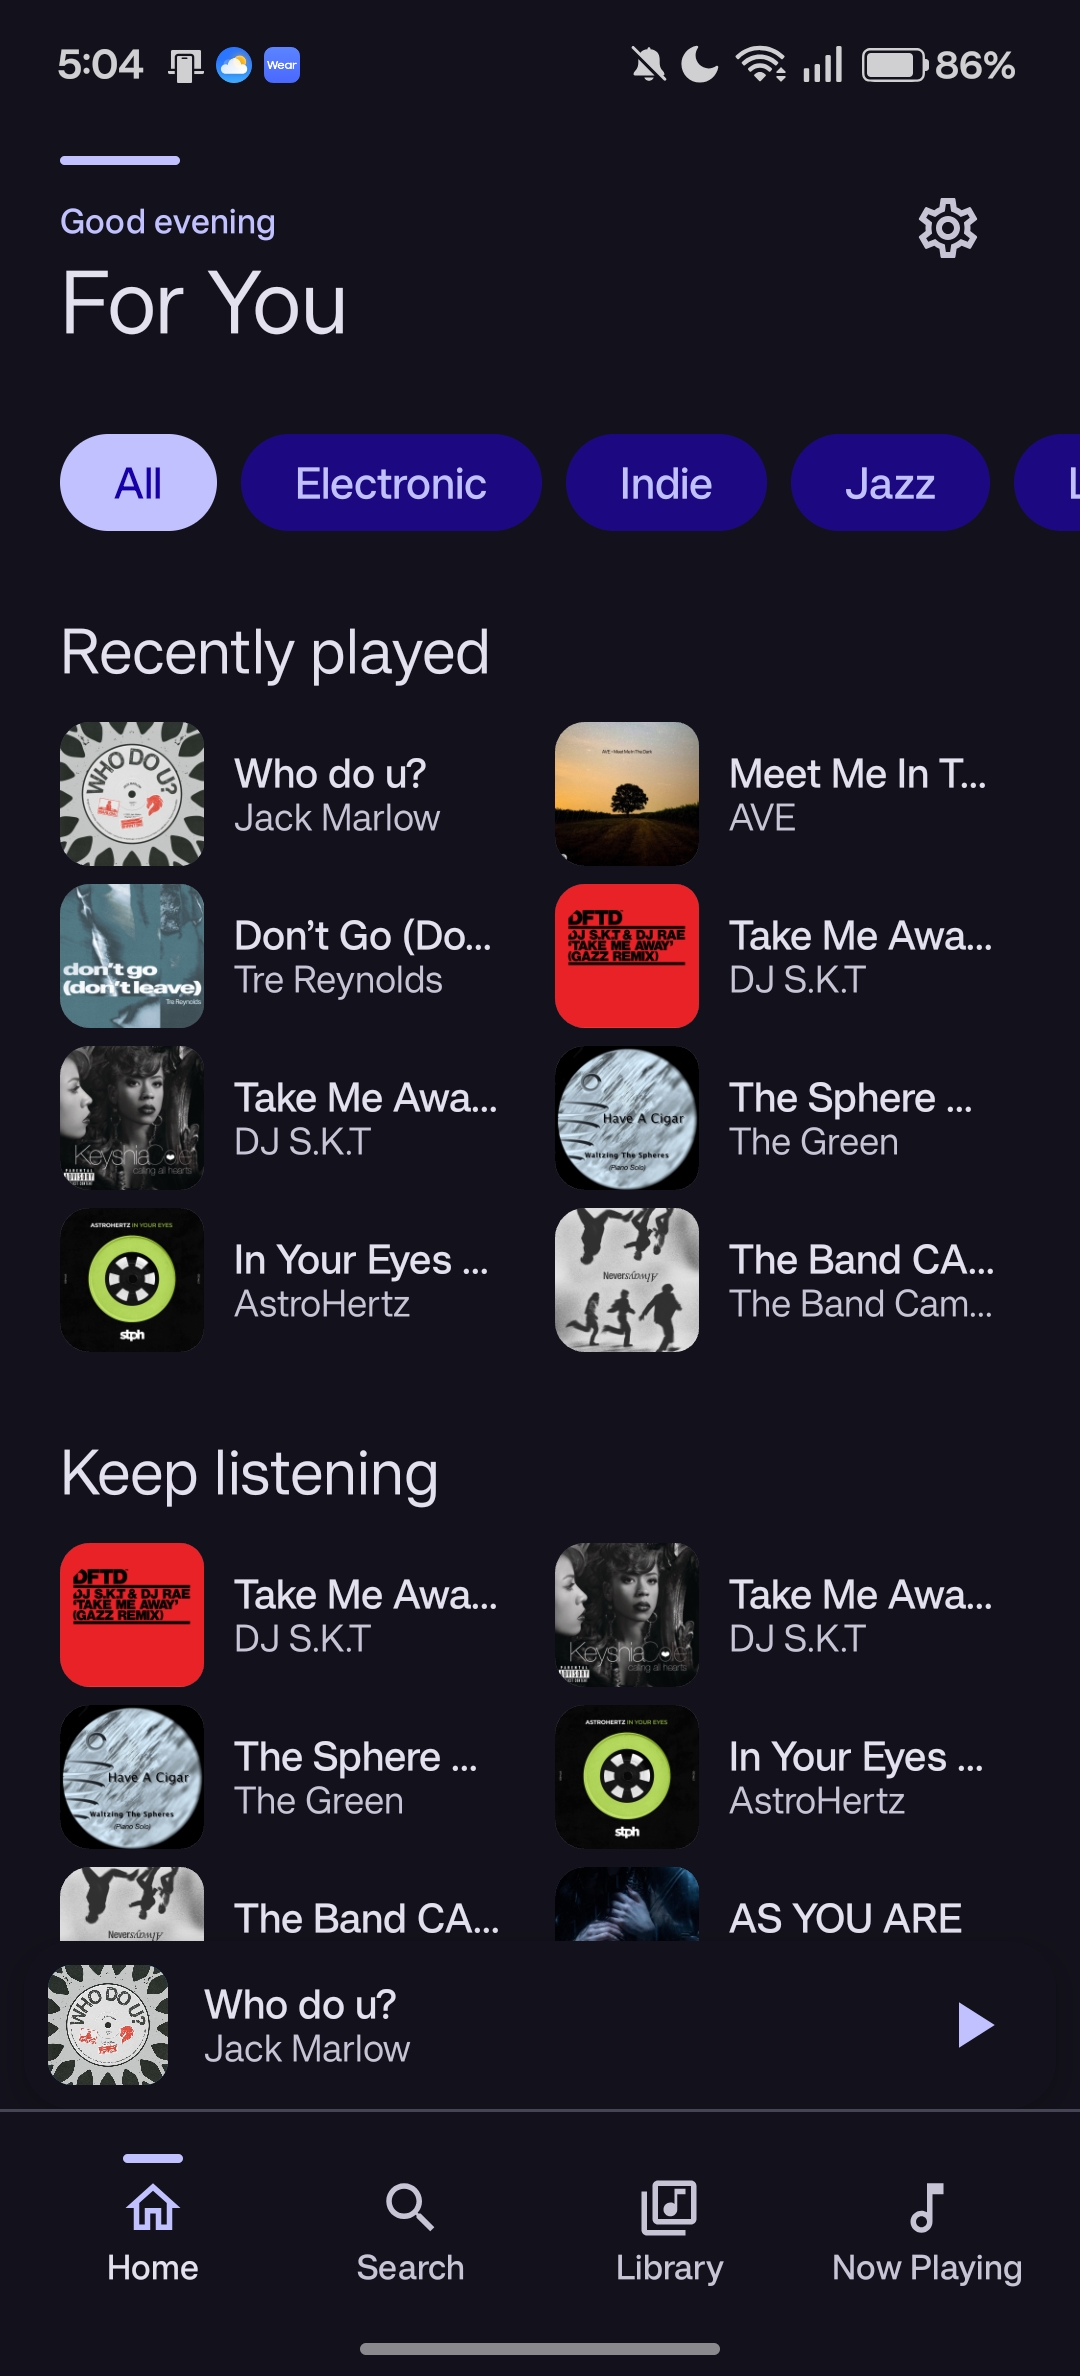
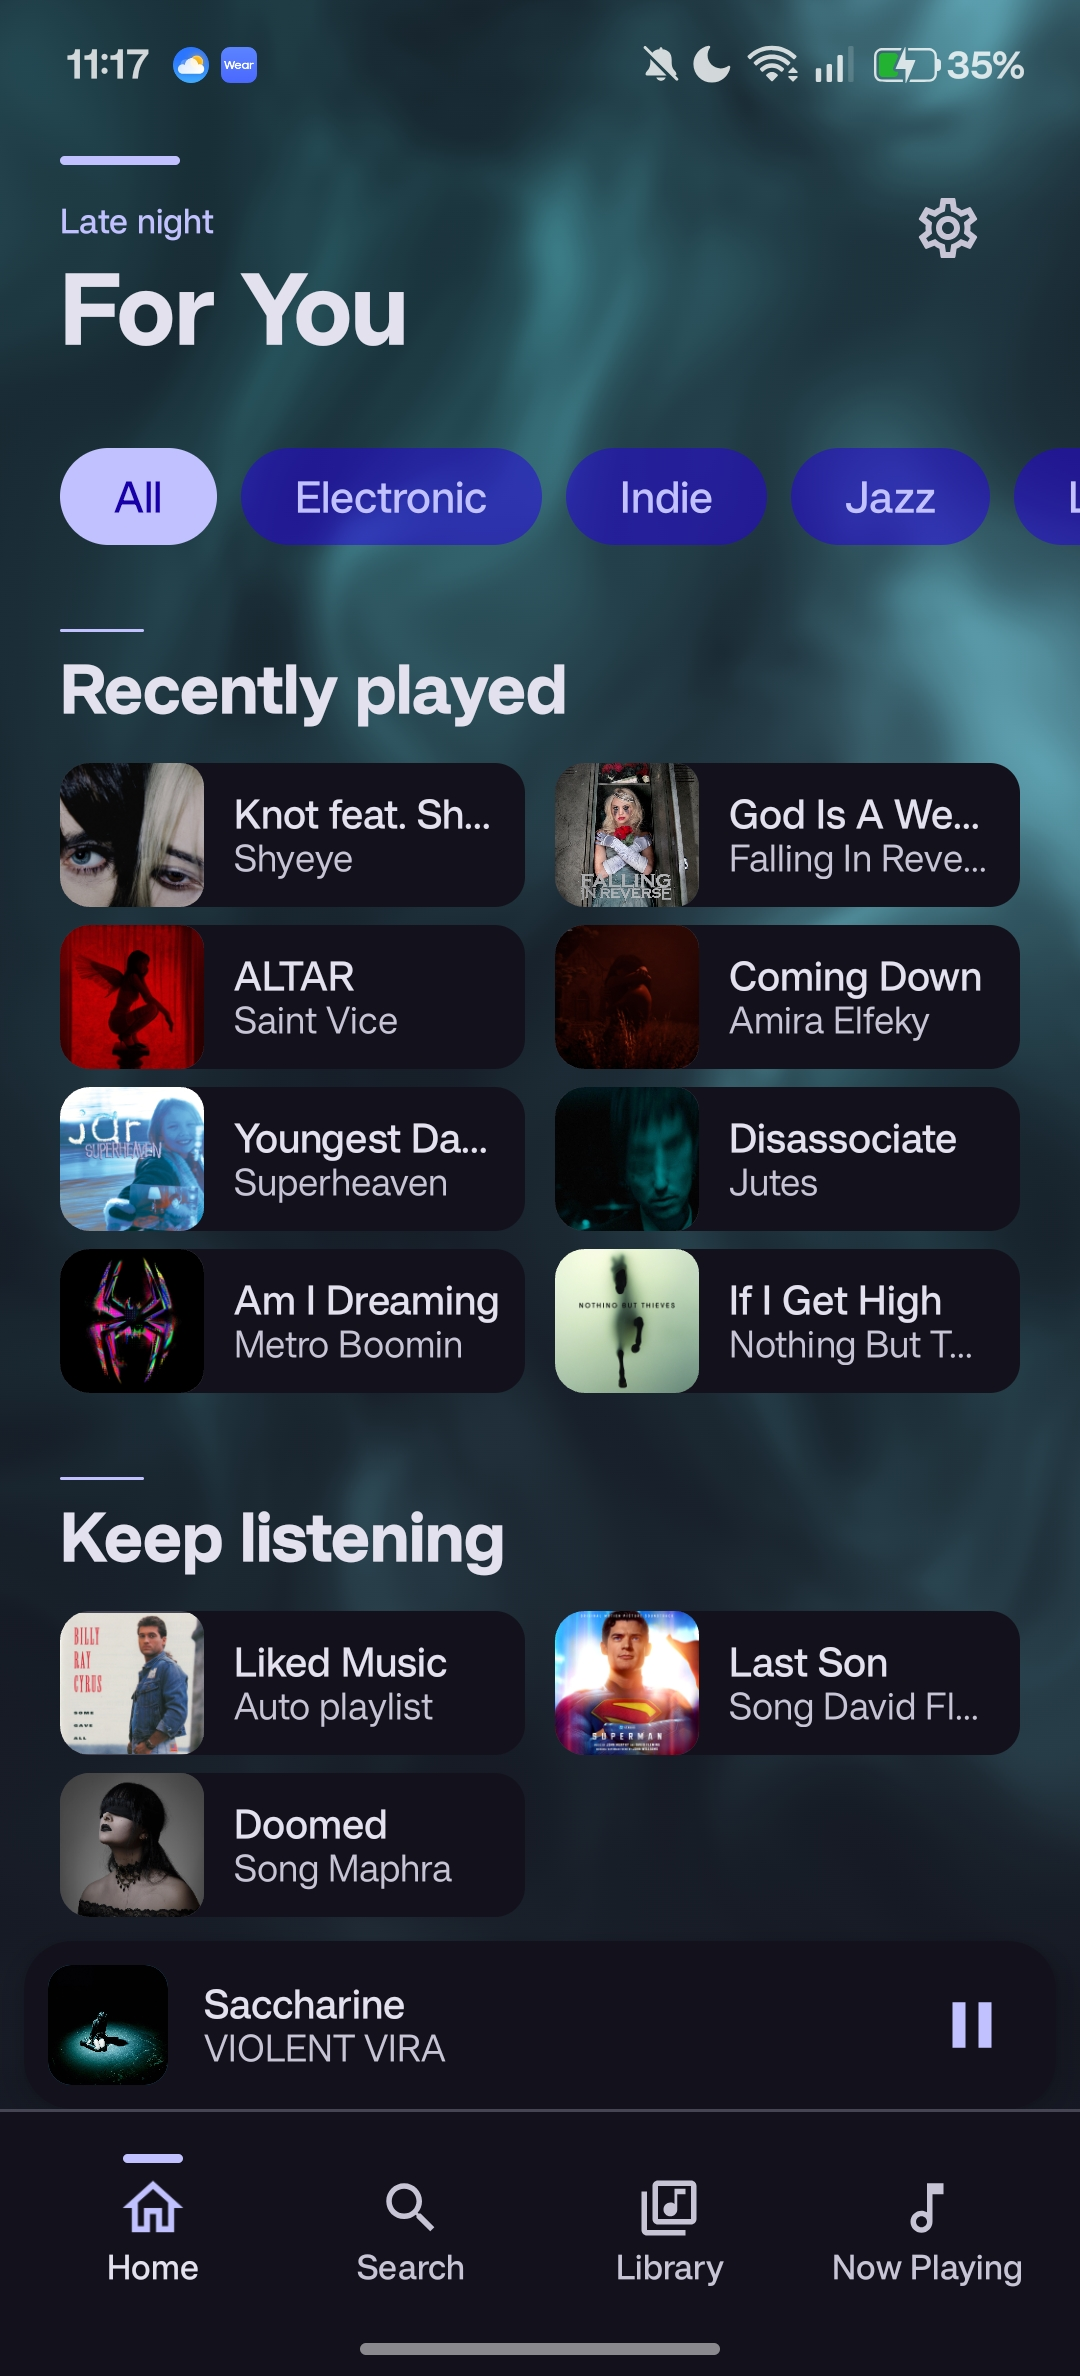
Refresh README screenshots
Replace the pre-rebrand screenshots with current ones (Home "For You" feed
and Now Playing) showing Material You, the editorial UI, and the album-art
adaptive glow. Update captions to match.

diff --git a/README.md b/README.md
@@ -77,12 +77,12 @@ Songs throughout the app pull the actual cover from iTunes Search — no more ra
 <td align="center">
 <img src="docs/home.jpg" alt="Home" width="280"/>
 <br/>
-<sub><b>Home</b> — personal-first feed with mixed section sizes</sub>
+<sub><b>Home</b> — personal "For You" feed, mixed section sizes, Material You accent, soft glow behind</sub>
 </td>
 <td align="center">
 <img src="docs/now-playing.jpg" alt="Now Playing" width="280"/>
 <br/>
-<sub><b>Now Playing</b> — real album art, editorial type, live glow behind</sub>
+<sub><b>Now Playing</b> — real album art with the glow picking up the cover's colour</sub>
 </td>
 </tr>
 </table>